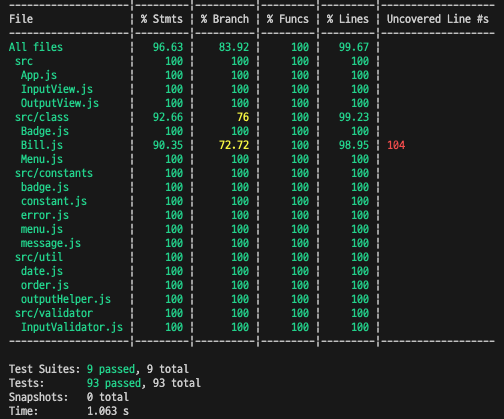
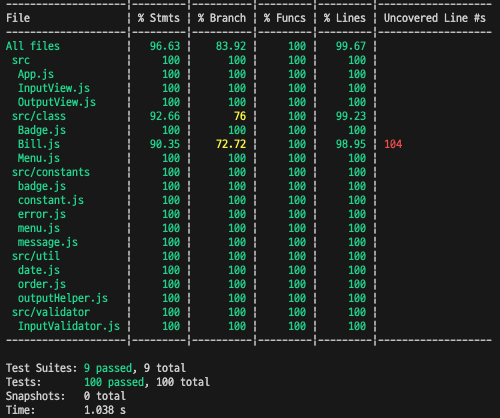
Add(test) : ApplicationTest 테스트 케이스 추가

Changed region(s): [[0.0, 0.0, 0.99, 0.8397], [0.0, 0.8708, 0.42, 0.9952], [0.78, 0.311, 0.81, 0.3732]]

diff --git a/__tests__/ApplicationTest.js b/__tests__/ApplicationTest.js
@@ -68,6 +68,113 @@ describe("기능 테스트", () => {
 
     expectLogContains(getOutput(logSpy), expected);
   });
+
+  describe("날짜에 맞는 혜택 내역 타이틀 출력", () => {
+    test("크리스마스 디데이 할인 출력", async () => {
+      // given
+      const logSpy = getLogSpy();
+      mockQuestions(["25", "티본스테이크-1,바비큐립-1,초코케이크-2,제로콜라-1"]);
+  
+      // when
+      const app = new App();
+      await app.run();
+  
+      // then
+      const expected = ["크리스마스 디데이 할인"];
+  
+      expectLogContains(getOutput(logSpy), expected);
+    });
+
+    test("평일 할인 출력", async () => {
+      // given
+      const logSpy = getLogSpy();
+      mockQuestions(["6", "티본스테이크-1,바비큐립-1,초코케이크-2,제로콜라-1"]);
+  
+      // when
+      const app = new App();
+      await app.run();
+  
+      // then
+      const expected = ["평일 할인"];
+  
+      expectLogContains(getOutput(logSpy), expected);
+    });
+  
+    test("주말 할인 출력", async () => {
+      // given
+      const logSpy = getLogSpy();
+      mockQuestions(["16", "티본스테이크-1,바비큐립-1,초코케이크-2,제로콜라-1"]);
+  
+      // when
+      const app = new App();
+      await app.run();
+  
+      // then
+      const expected = ["주말 할인"];
+  
+      expectLogContains(getOutput(logSpy), expected);
+    });
+
+    test("특별 할인 출력", async () => {
+      // given
+      const logSpy = getLogSpy();
+      mockQuestions(["17", "티본스테이크-1,바비큐립-1,초코케이크-2,제로콜라-1"]);
+  
+      // when
+      const app = new App();
+      await app.run();
+  
+      // then
+      const expected = ["특별 할인"];
+  
+      expectLogContains(getOutput(logSpy), expected);
+    });
+
+    test("증정 이벤트 출력", async () => {
+      // given
+      const logSpy = getLogSpy();
+      mockQuestions(["18", "티본스테이크-1,바비큐립-1,초코케이크-2,제로콜라-1"]);
+  
+      // when
+      const app = new App();
+      await app.run();
+  
+      // then
+      const expected = ["증정 이벤트"];
+  
+      expectLogContains(getOutput(logSpy), expected);
+    });
+
+    test("크리스마스 디데이 할인 & 주말 할인 & 증정 이벤트 출력", async () => {
+      // given
+      const logSpy = getLogSpy();
+      mockQuestions(["15", "티본스테이크-1,바비큐립-1,초코케이크-2,제로콜라-1"]);
+  
+      // when
+      const app = new App();
+      await app.run();
+  
+      // then
+      const expected = ["크리스마스 디데이 할인", "주말 할인", "증정 이벤트"];
+  
+      expectLogContains(getOutput(logSpy), expected);
+    });
+
+    test("크리스마스 디데이 할인 & 평일 할인 출력", async () => {
+      // given
+      const logSpy = getLogSpy();
+      mockQuestions(["11", "티본스테이크-1,초코케이크-3"]);
+  
+      // when
+      const app = new App();
+      await app.run();
+  
+      // then
+      const expected = ["크리스마스 디데이 할인", "평일 할인"];
+  
+      expectLogContains(getOutput(logSpy), expected);
+    });
+  });
 });
 
 describe("예외 테스트", () => {
